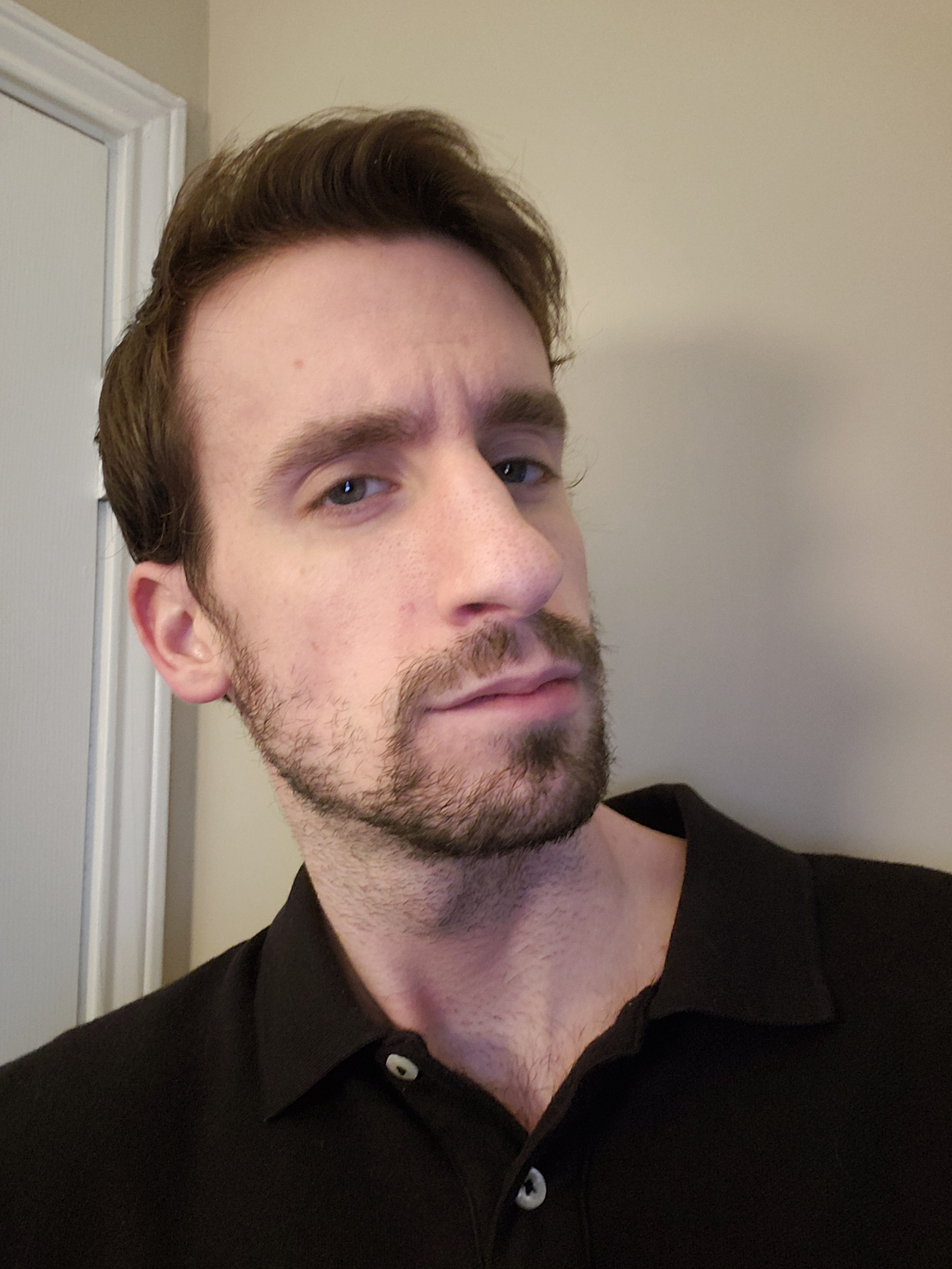
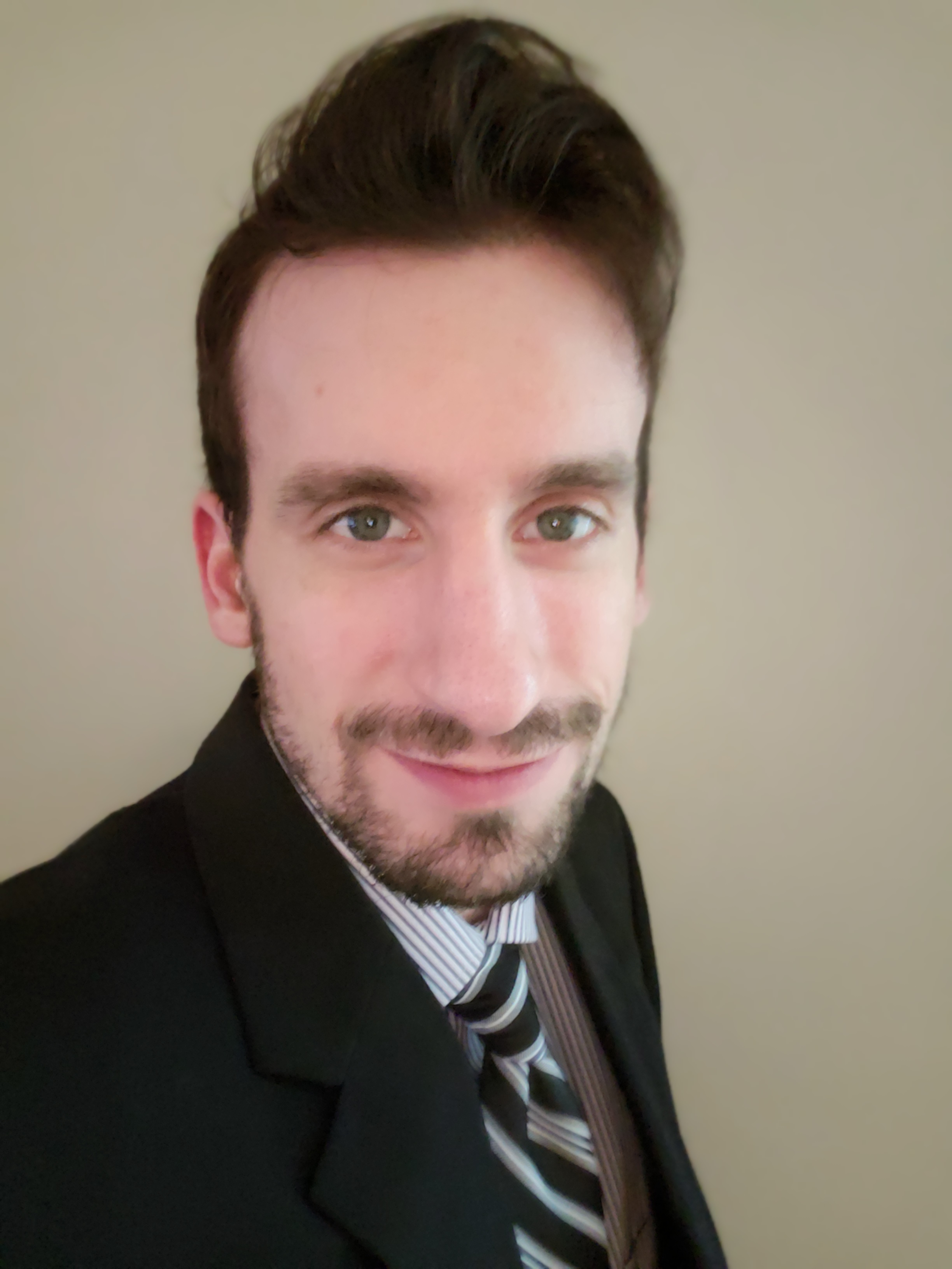
fixed img and link to email

diff --git a/src/pages/About/About.js b/src/pages/About/About.js
@@ -9,16 +9,18 @@ class About extends Component {
 			<View>
 				<div>
 					<h1 className="title">About Me</h1>
-					<img id="face" height="300" src={face} alt="Devon Wood"/>
-					<p>
-					Hello, my name is Devon Wood and I am currently studying at the UNC Coding Bootcamp for full-stack web development. I have spent most of my life surrounded by computers have enjoyed working with a multitude of different software in many fields. I taught myself several 3D modeling and graphic design software starting from when I was 17 including Autodesk Maya, Adobe Photoshop, and ZBrush to name a few. I have also worked with several game engines including Unity and the Unreal Engine to make a few small projects.
-					</p> 
-					<p>
-					For about 12 years of my life I played hockey as a goaltender moving from several states to keep advancing and improving. I grew up watching Patrick Roy and the Colorado Avalanche play which got me interested in playing goal. Unfortunately, a few injuries and the fact that I would be aging out of junior hockey made me stop short of making it beyond juniors and into a professional league. My final stop landed me in Boston, MA playing for a Junior A team before I ended up moving back to North Carolina to go to college.
-					</p>
-					<p>
-					I am and have always been a avid gamer ever since I first owned a PC. My very first and favorite game was the original Doom and I could spend hours on end playing. Eventually, as time moved on, I ended up owning several game systems and finally my own PC but I never stopped loving Doom. I spent many years learning game design and the intricate roles each member of a development team had which led me to greatly respect the skill and effort these people put in. I hope to one day start my own games company but for now I am learning all I can to prepare myself for it.
-					</p>
+					<div id="about-div">	
+						<img id="face" height="300" src={face} alt="Devon Wood"/>
+						<p>
+						Hello, my name is Devon Wood and I am full stack developer working primarily with Javascript, HTML, and CSS. I have spent most of my life surrounded by computers have enjoyed working with a multitude of different software in many fields. I taught myself several 3D modeling and graphic design software starting from when I was 17 learning programs like Autodesk Maya, Adobe Photoshop, and ZBrush to name a few. I have also worked with several game engines including Unity and the Unreal Engine to make a few small projects.
+						</p> 
+						<p>
+						For about 12 years of my life I played hockey as a goaltender moving from several states to keep advancing and improving. I grew up watching Patrick Roy and the Colorado Avalanche play which got me interested in playing goal. I ended up moving back home to Raleigh from Boston to attend college.
+						</p>
+						<p>
+						I am and have always been a avid gamer ever since I first owned a PC. My very first and favorite game was the original Doom and I could spend hours on end playing. I spent many years learning game design and the intricate roles each member of a development team had which led me to greatly respect the skill and effort of the people involved. I am currently working for Trilogy Education tutoring students in the same class I went through to help them better understand the world of coding.
+						</p>
+					</div>
 				</div>
 			</View>
 		);

diff --git a/src/pages/Contact/Contact.js b/src/pages/Contact/Contact.js
@@ -8,6 +8,12 @@ import Linked from "../../images/linkedin.png";
 import Gmail from "../../images/gmail.png";
 
 class Contact extends Component {
+	state = {
+		showEmail: ""
+	}
+
+	renderEmail = () => this.setState({showEmail: "wooddv35@gmail.com"})
+
 	render() {
 		return (
 			<View>
@@ -20,7 +26,12 @@ class Contact extends Component {
 						<ContBlock title="LinkedIn" link="https://www.linkedin.com/in/devon-wood-398397144/" img={Linked} />
 					</Col>
 					<Col size="md-12 lg-6 xl-4" name="offset-lg-3 offset-xl-0">
-						<ContBlock title="Gmail" link="wooddv35@gmail.com" img={Gmail} />
+						<ContBlock title="Gmail" click={this.renderEmail} img={Gmail} />
+					</Col>
+				</Row>
+				<Row>
+					<Col size="md-4" name="offset-md-4">
+						<h2>{this.state.showEmail}</h2>
 					</Col>
 				</Row>
 			</View>

diff --git a/src/components/ContBlock/ContBlock.js b/src/components/ContBlock/ContBlock.js
@@ -3,7 +3,7 @@ import { Row, Col } from "../Grid";
 import "./ContBlock.css";
 
 const ContBlock = props =>
-	<a className="contact-link" href={props.link}>
+	<a className="contact-link" onClick={props.click} href={props.link ? props.link : "#"}>
 		<Row name="cont-border">
 			<Col size="md-3" name="col-auto mr-auto">
 				<h3>{props.title}</h3>

diff --git a/src/pages/About/About.css b/src/pages/About/About.css
@@ -2,3 +2,12 @@
 	float: left;
 	margin: 10px;
 }
+
+#about-div {
+	width: 75%;
+	margin: auto;
+	border-left: 4px solid black;
+	border-right: 4px solid black;
+	padding-left: 10px;
+	padding-right: 10px;
+}

diff --git a/src/components/ContBlock/ContBlock.css b/src/components/ContBlock/ContBlock.css
@@ -5,7 +5,7 @@
 .cont-border {
 	height: 7rem;
 	color: black;
-	border: 1px solid black;
+	border: 4px solid black;
 	margin: 10px;
 	padding: 10px;
 	background: white;
